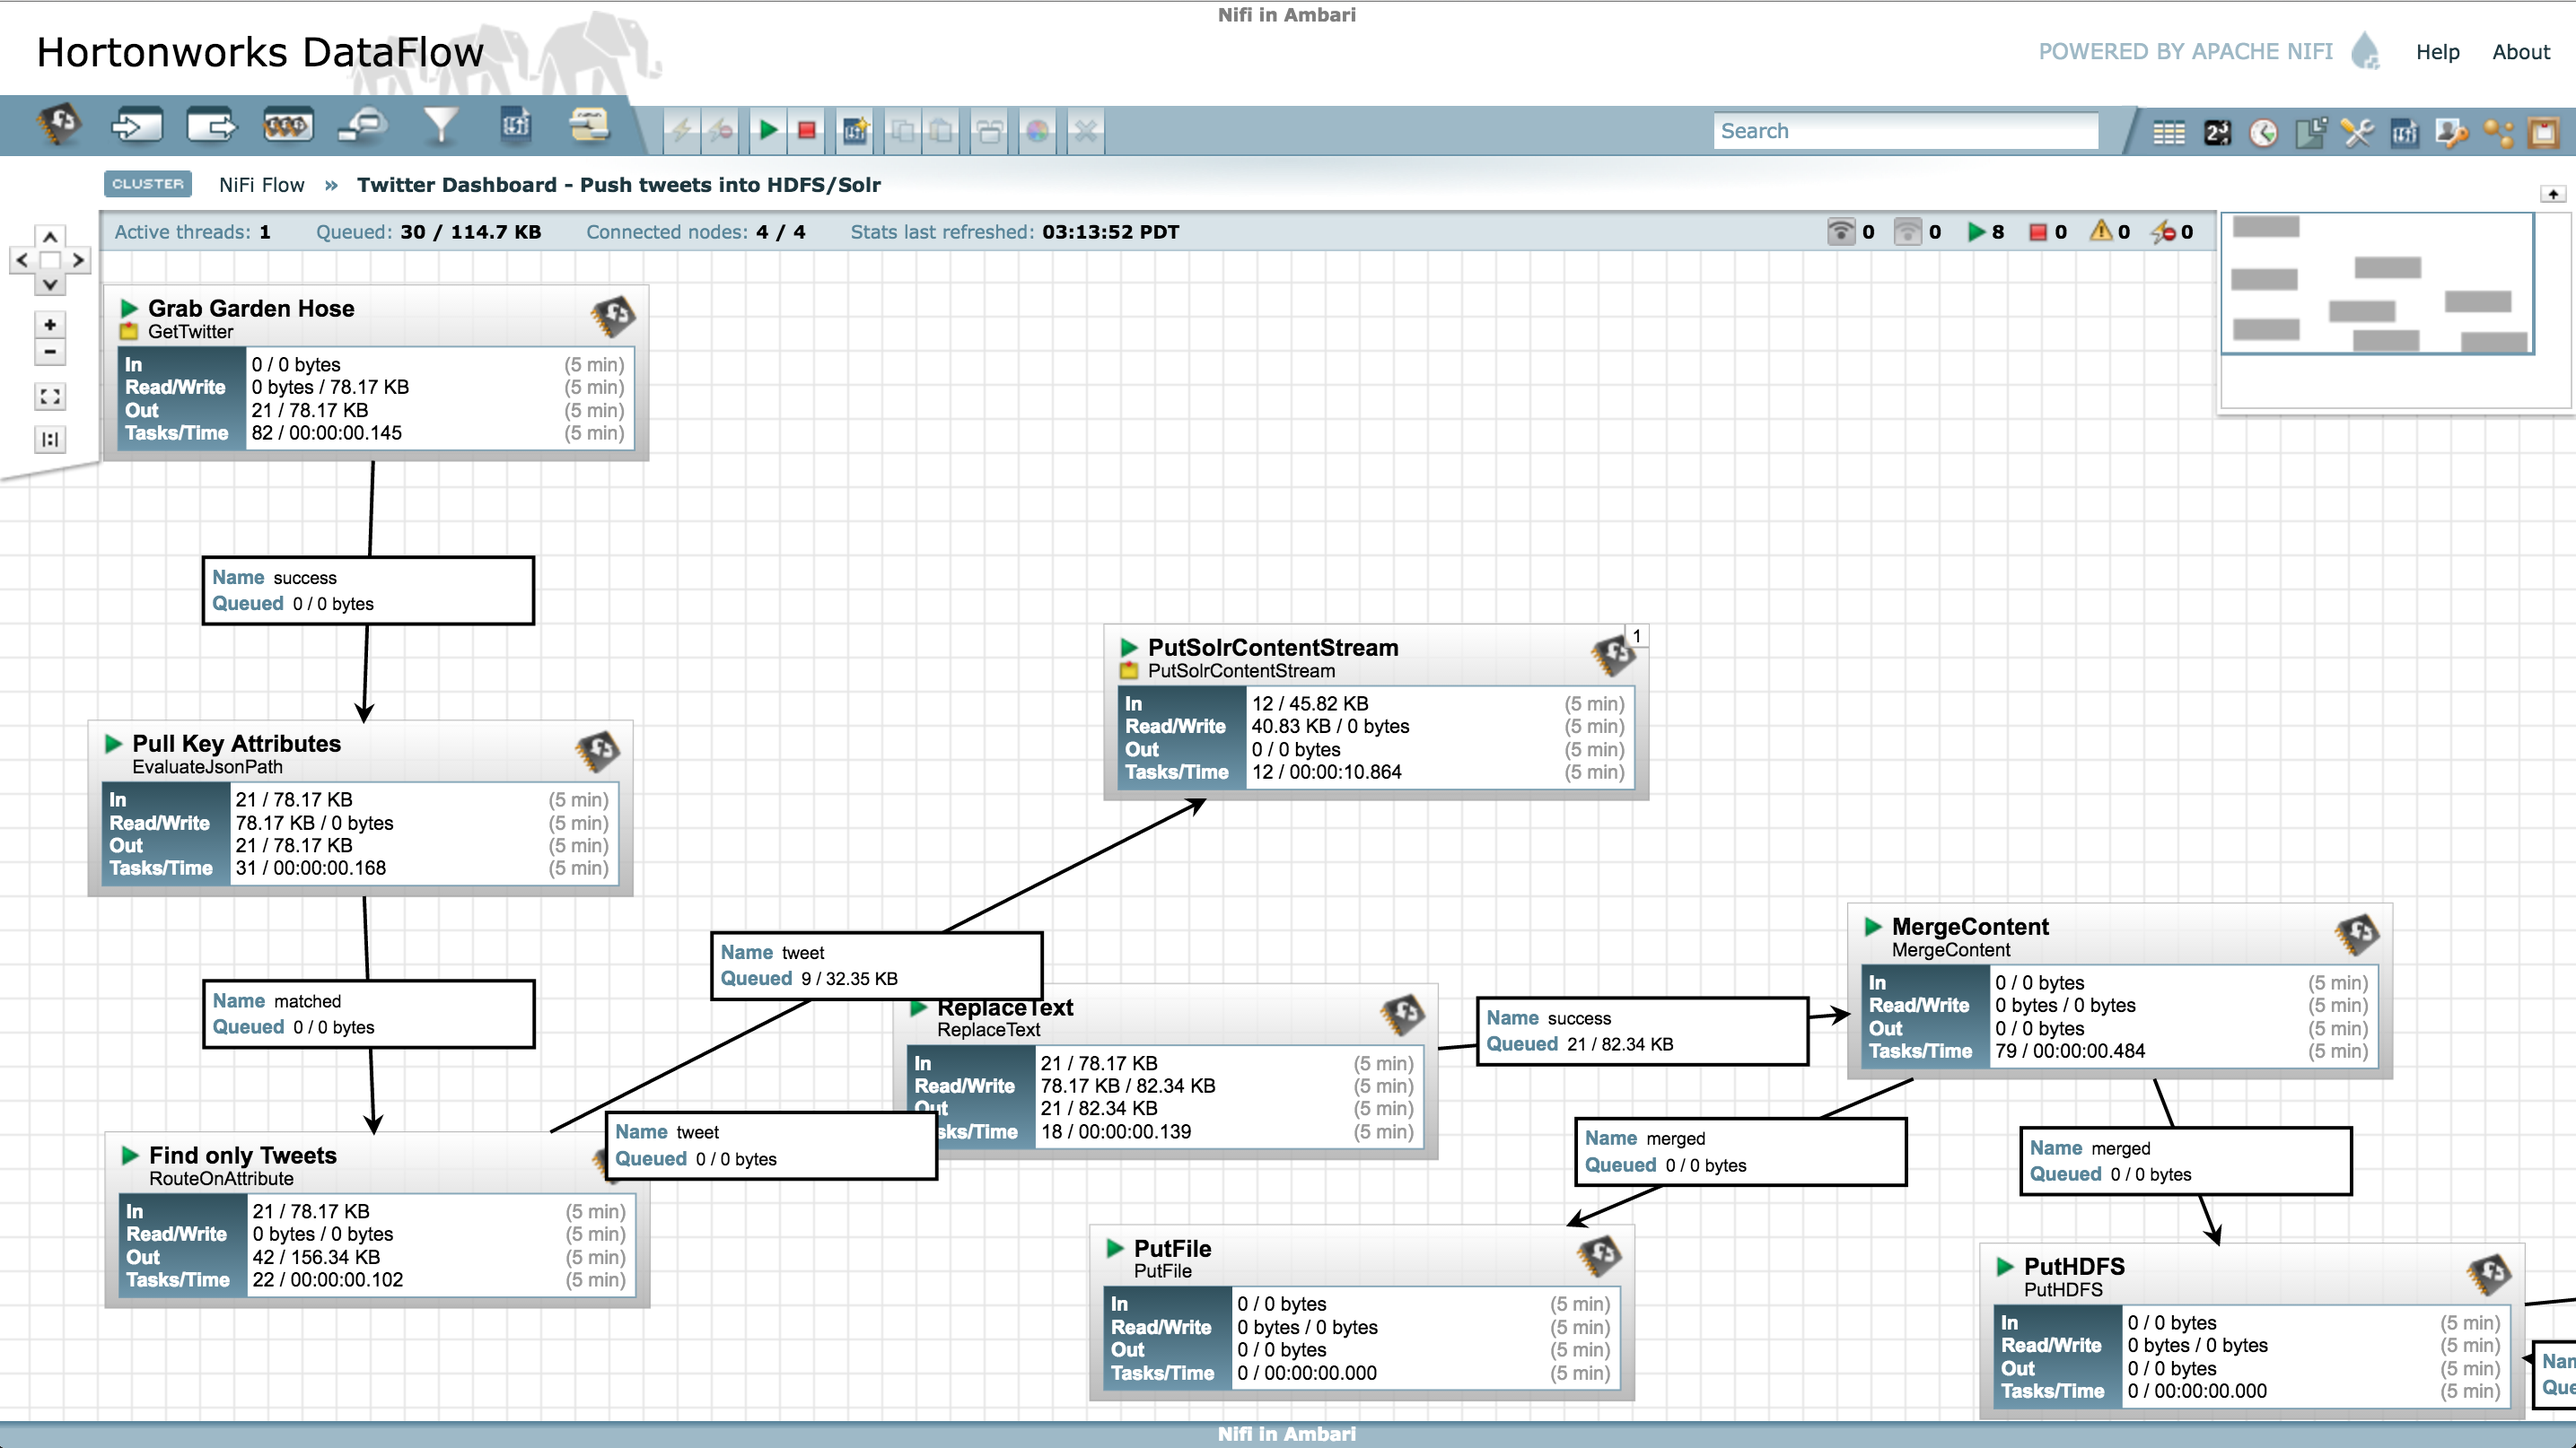
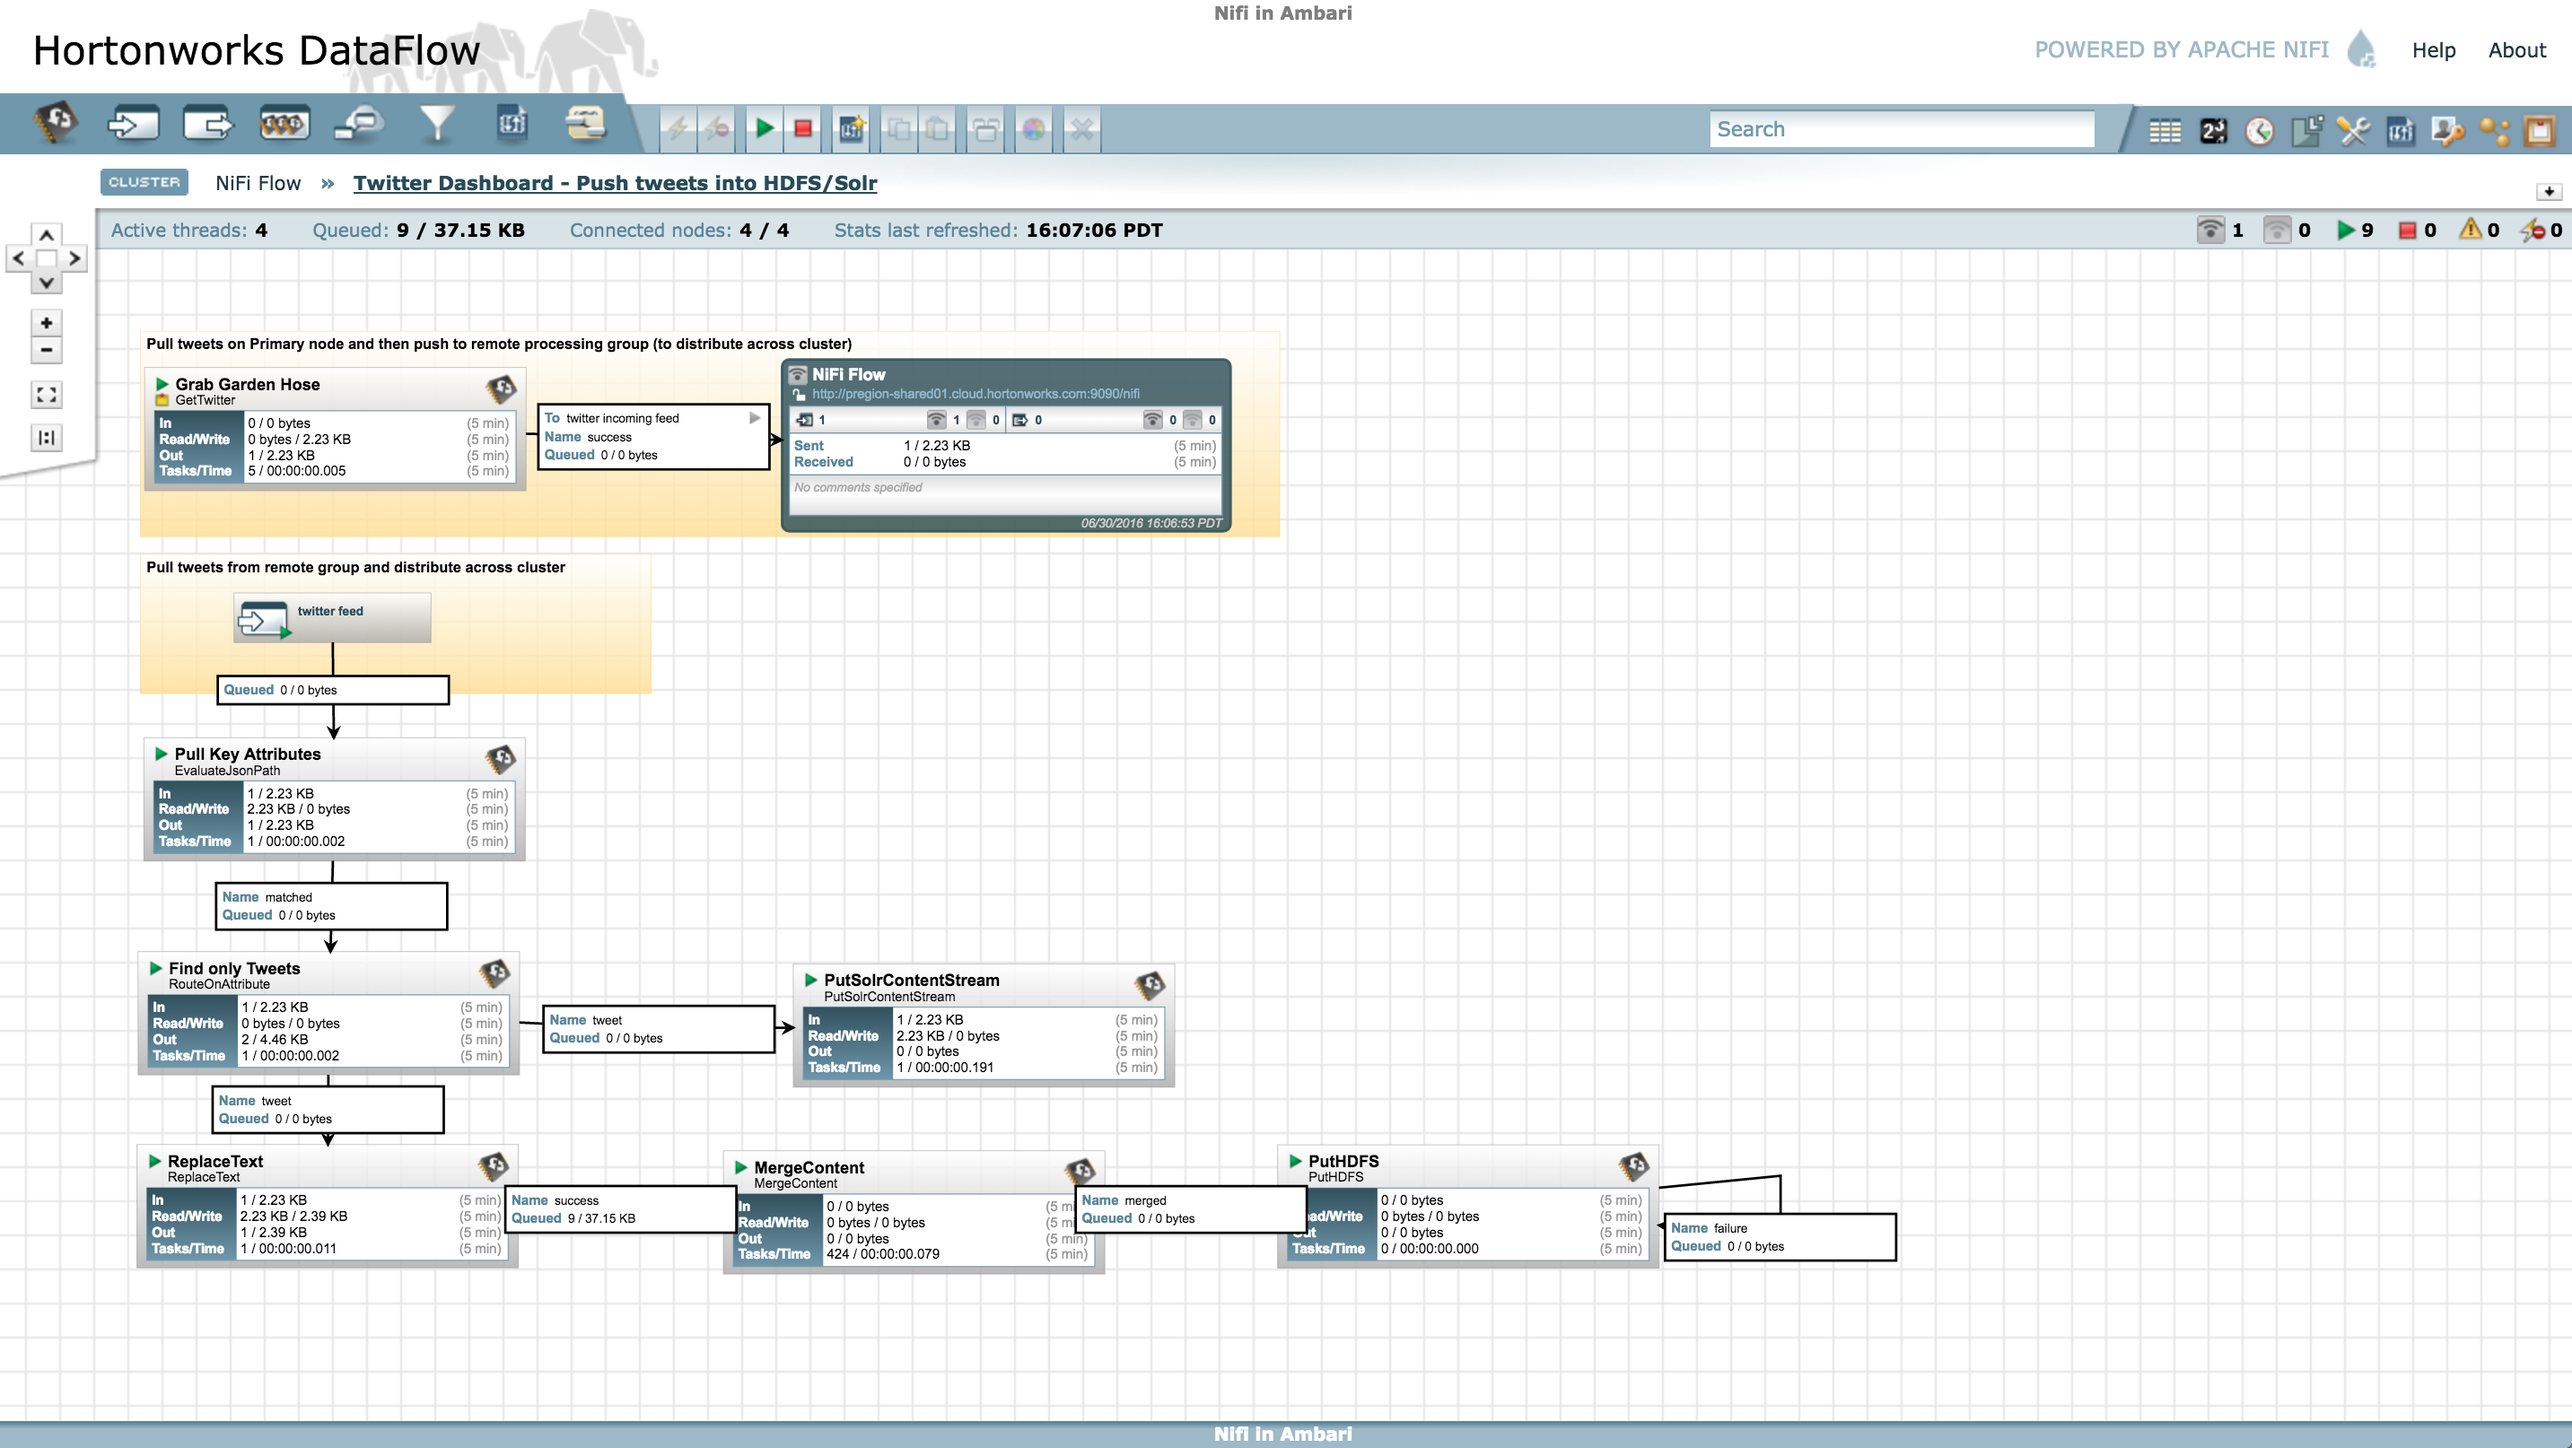
updated screenshots

diff --git a/README.md b/README.md
@@ -306,7 +306,7 @@ http://sandbox.hortonworks.com:9090/nifi
   ```  
     
 - Now open Nifi webui and run the remaining steps there:    
-  - Download prebuilt Twitter_Dashboard.xml template to your laptop from [here](https://raw.githubusercontent.com/abajwa-hw/ambari-nifi-service/master/demofiles/Twitter_Dashboard.xml)
+  - Download prebuilt Twitter_dashboard_(clustered).xml template to your laptop from [here](https://github.com/abajwa-hw/ambari-nifi-service/raw/master/demofiles/Twitter_dashboard_(clustered).xml)
   - Import flow template info Nifi:
     - Import template by clicking on Templates (third icon from right) which will launch the 'Nifi Flow templates' popup
      ![Image](../master/screenshots/nifi-flow-templates.png?raw=true)
